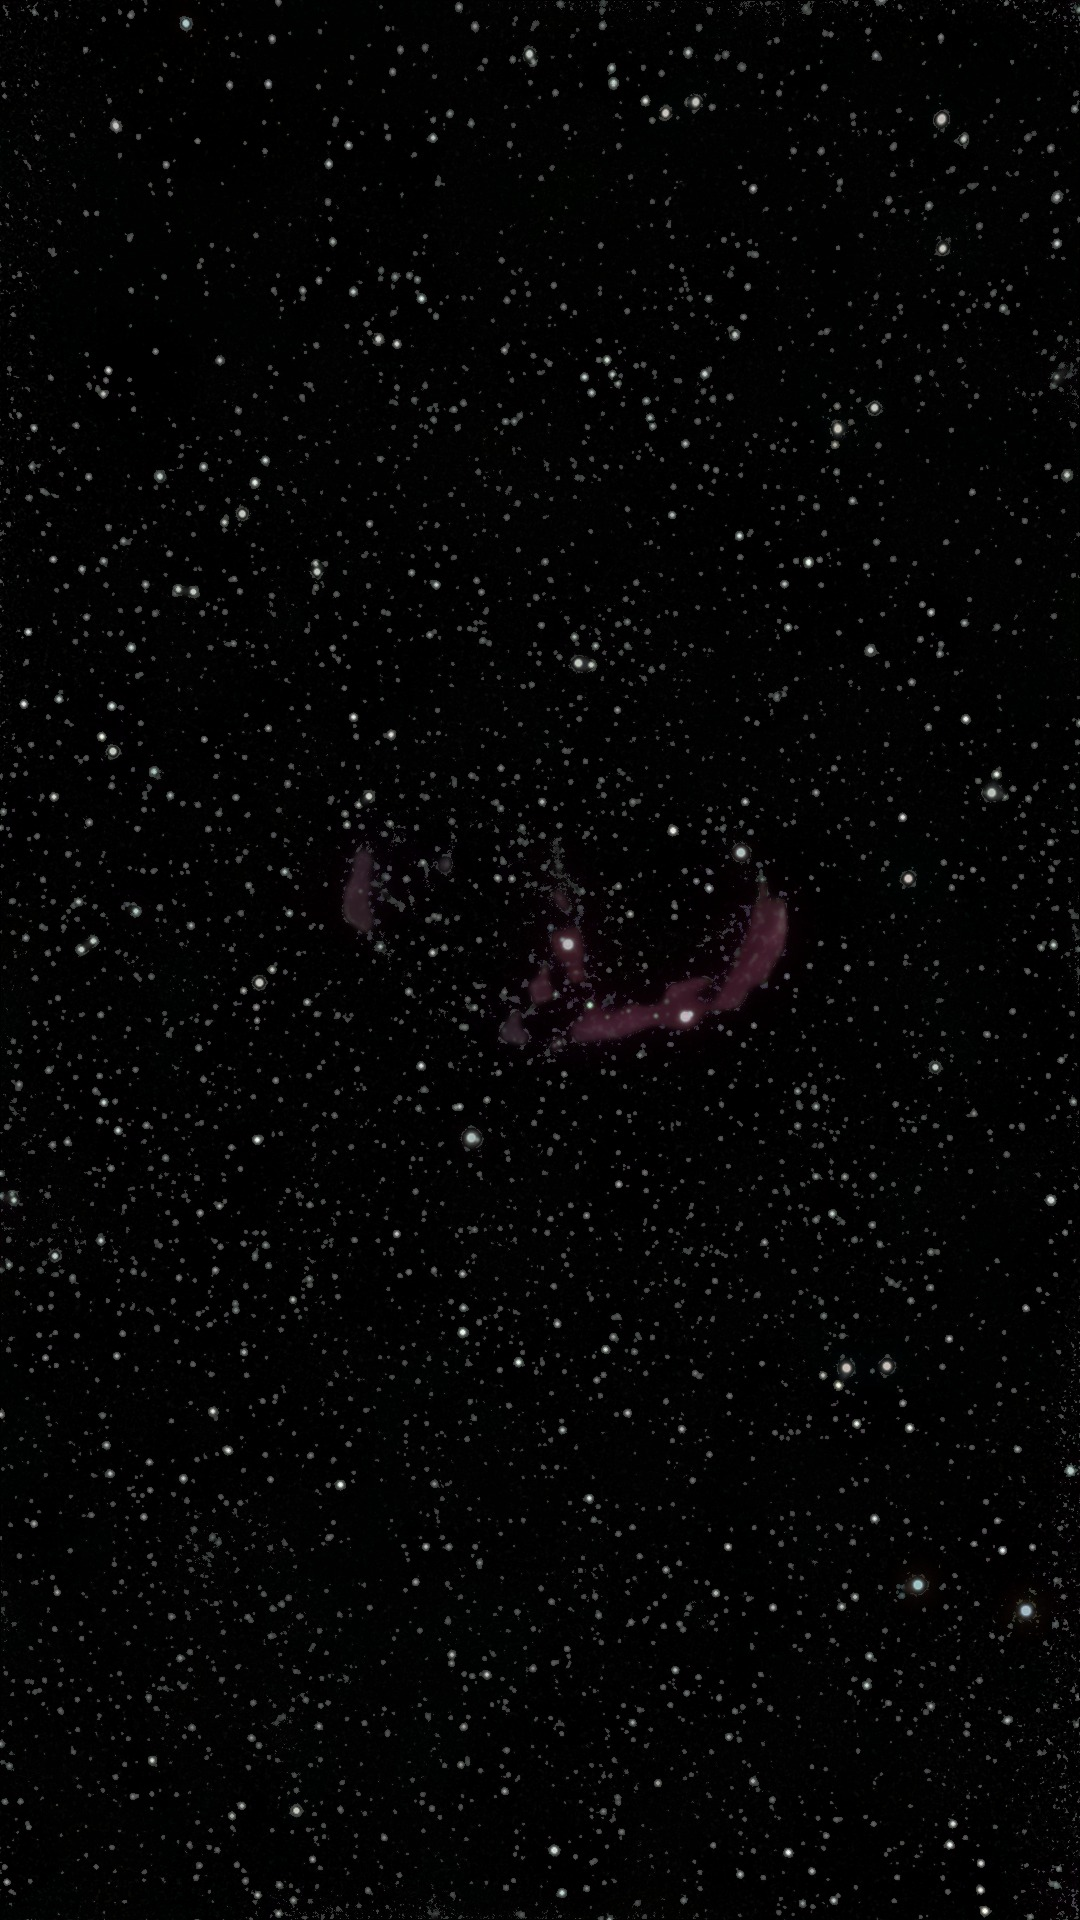
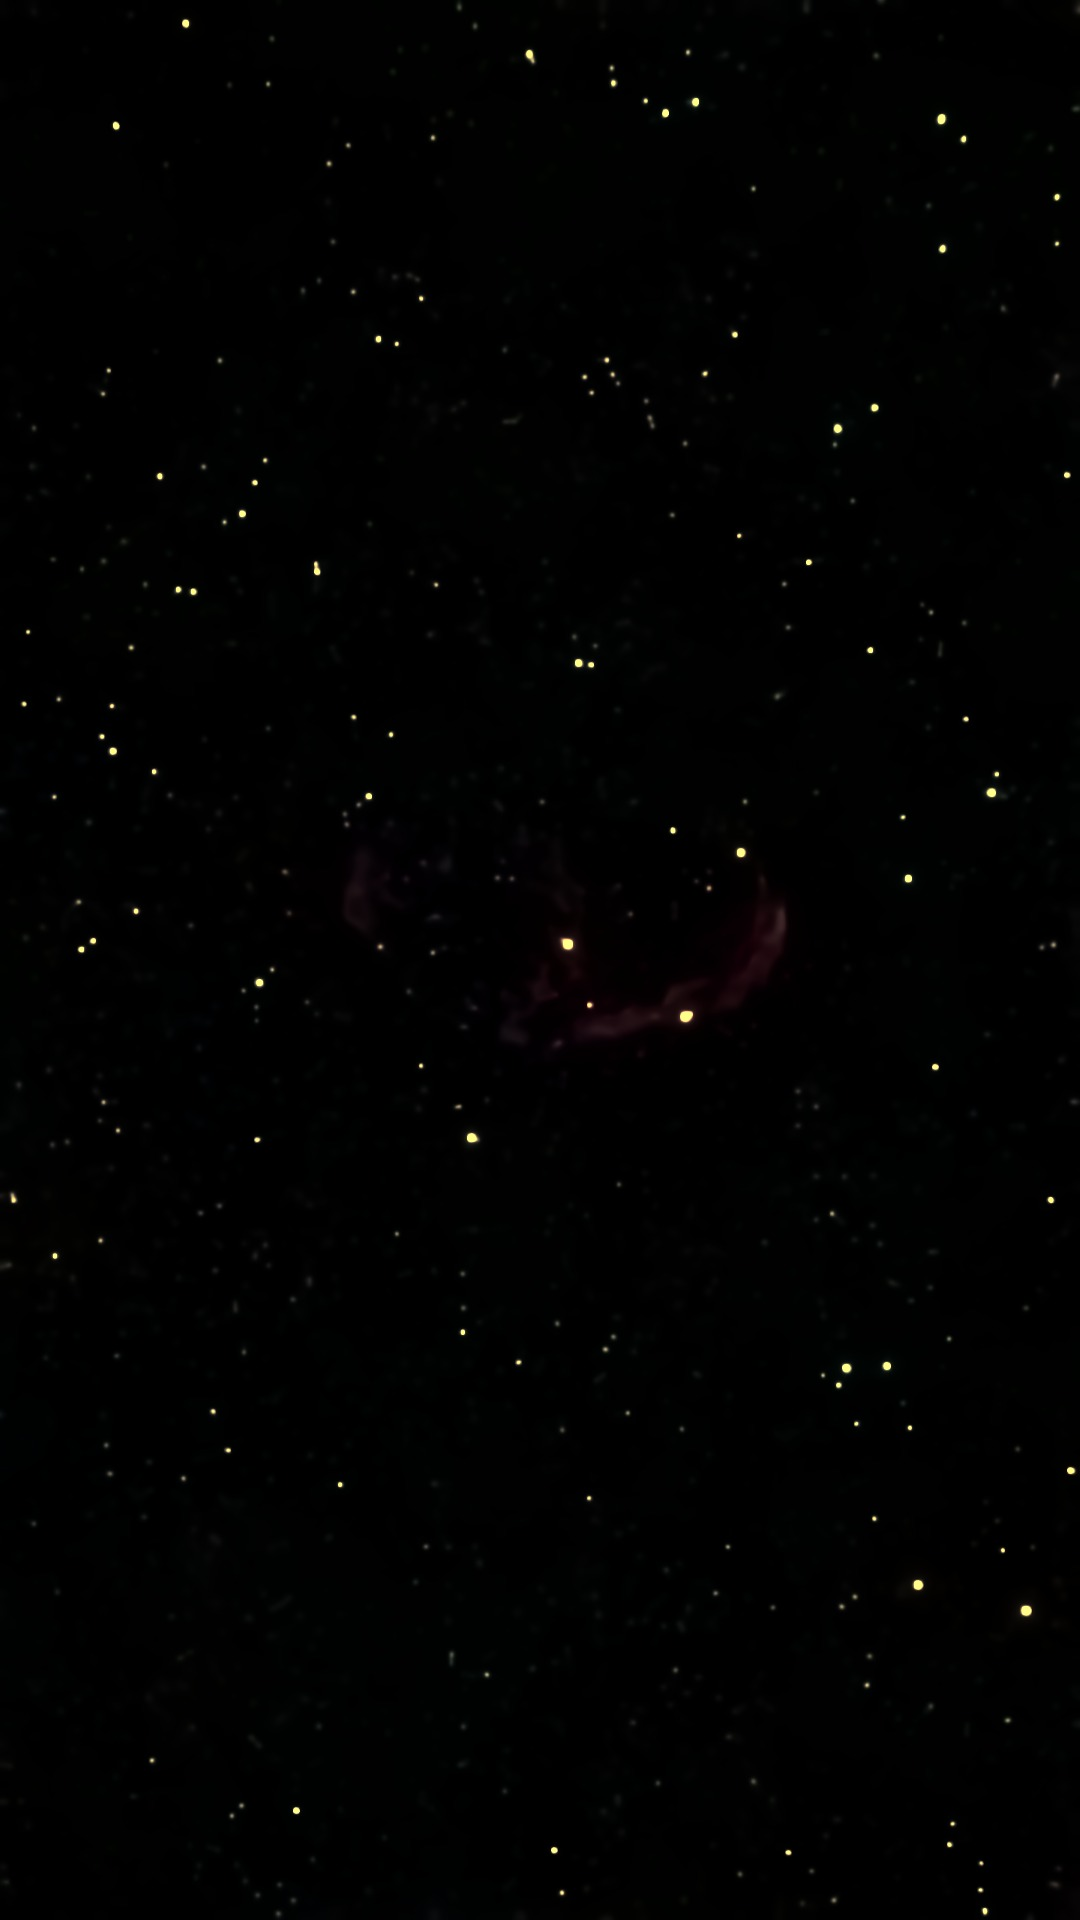
NEBULA_WIDE: disable star-split, warm Crescent arc
Root-cause: tracing NGC 6888 through the pipeline showed the
star-split stage pulled R/G from 1.11 (pre-split) to 2.15 (starless),
while also halving the arc's luma. The median-based star detector
was treating the bright arc as "star-like" and preferentially eating
its green channel, then the low remaining luma made channel_gains
ineffective (they're luma-weighted in curves). Net result: dim
pink-purple arc instead of warm red-orange.

Fixes in NEBULA_WIDE:
- stars: {"radius": 7} -> None  (skip star-split; keep full arc)
- stretch: 16.5 -> 28, white_pct 99.95 -> 99.97, black_pct 25 -> 18
  (lift arc well above sky so luma-weighted gains bite)
- curves.contrast: 0.60 -> 0.70
- curves.saturation: 0.85 -> 1.50
- curves.channel_gains: added (1.60, 1.25, 0.55) for warm red-orange
  matching the user's local reference (R/G=1.23, hue ~20°)
- color.green_clip: 0.20 -> 0.0 (SCNR disabled; preserve G)
- spcc.strength: 0.70 -> 0.35 (avoid over-correcting G as "sensor bias")

Result on Crescent: clear warm red-orange arc with visible structure,
R/G=1.17 (ref 1.23), matches the local reference tone.

NEBULA_DOMINANT / NEBULA_FILAMENT unchanged. All 9 classifier + API
tests pass.

diff --git a/backend/app/profiles.py b/backend/app/profiles.py
@@ -192,25 +192,34 @@ NEBULA: Profile = {
 # already red — less headroom before posterisation).
 NEBULA_WIDE: Profile = {
     **NEBULA,
-    # SPCC is doing the sensor calibration on this profile, so we
-    # turn OFF the static Seestar CCM and drop most of the heuristic
-    # WB. Leaving both active compounds three calibrations on top of
-    # each other and the result swings way too blue.
+    # Bicolor HOO target (Crescent NGC 6888): a Wolf-Rayet bubble with
+    # teal/cyan OIII in the centre and red/pink Hα on the outer shell.
+    # The Seestar RGGB bayer picks up OIII predominantly in the G
+    # channel with some B, and Hα almost entirely in R. To preserve
+    # the bicolor palette we need to keep G intact (no SCNR clipping)
+    # and boost saturation so the two emission bands read as distinct
+    # colours instead of a single pink blob.
     "color": {
         **NEBULA["color"],
         # Static CCM OFF — its built-in R-cut/B-boost was meant for the
         # pre-SPCC pipeline and was compounding with SPCC's own
-        # corrections (purple-cast result). With SPCC now running with
-        # the G2V solar reference and clamped gains, it can do the
-        # whole sensor calibration on its own.
+        # corrections (purple-cast result).
         "ccm": None,
         "wb_strength": 0.0,
-        "green_clip": 0.20,
+        # green_clip=0.0 disables SCNR entirely. The standard nebula
+        # profile clips G toward max(R,B) to tame sky green-bias, but
+        # that destroys the OIII signal on targets where G channel
+        # carries real nebula emission (HOO bicolor).
+        "green_clip": 0.0,
     },
+    # black_percentile=18 crushes the sky hard so the arc contrasts
+    # cleanly against black. stretch=28 + white_pct=99.97 lifts the
+    # arc well into the visible range so downstream luma-weighted
+    # channel_gains have meaningful bite on its pixels.
     "stretch": {
-        "black_percentile": 25.0,
-        "white_percentile": 99.95,
-        "stretch": 16.5,
+        "black_percentile": 18.0,
+        "white_percentile": 99.97,
+        "stretch": 28.0,
     },
     "bm3d_denoise": {
         "sigma": 0.22,
@@ -219,36 +228,43 @@ NEBULA_WIDE: Profile = {
         "chroma_edge_aware": True,
         "chroma_edge_luma_sigma": 0.06,
     },
-    # contrast=0.55 + white_pct=99.97 + stretch=15 keeps the Crescent
-    # arc as a thin coloured ring with visible inner structure instead
-    # of a blown-out solid pink blob. Saturation<1.0 desaturates the
-    # hot pink toward the reference's earthy pink-orange.
+    # contrast=0.70 pulls the arc firmly above the sky. saturation=1.5
+    # + HSV: the Crescent's short-exposure OIII signal is marginal (G
+    # only 27% over R raw), so bicolor teal won't read without much
+    # longer integration. Target a clean warm red-orange Hα arc
+    # matching the user's local reference (ref: R/G=1.23, hue ~20°).
+    #
+    # channel_gains (1.60, 1.25, 0.55): very strong R lift with G
+    # lifted to tilt hue toward orange (not pink) and B cut hard to
+    # remove the residual purple cast. Aggressive values are needed
+    # because gains are luma-weighted in the curves stage, so at the
+    # arc's ~0.3 luma the effective multiplier is much softer.
     "curves": {
-        "contrast": 0.60,
-        "saturation": 0.85,
+        "contrast": 0.70,
+        "saturation": 1.50,
         "saturation_mode": "hsv",
+        "channel_gains": (1.60, 1.25, 0.55),
     },
-    # strength=0.45 — apply 45% of SPCC's fitted gain. Full strength
-    # (1.0) on broadband Seestar data pushes R too hard because Gaia's
-    # RP band is wider / extends further into the IR than a camera's
-    # red filter. Dialling back lets us keep the SPCC star-match
-    # direction without overcooking the result.
+    # SPCC strength dialled back (0.7 -> 0.35) because SPCC calibrates
+    # against stellar references that assume broadband continuum. On
+    # an OIII-dominant bubble the G channel carries real emission
+    # that SPCC would read as "excess green sensor bias" and try to
+    # suppress, which would gut the teal tones.
     "spcc": {
         "min_matches": 20,
-        "strength": 0.7,
-        # `solar_reference_bp_rp=None` means "use the median catalogue
-        # star colour in this frame as the neutral reference". Auto-
-        # corrects for dust-extinction reddening — Milky Way stars are
-        # systematically reddened by intervening dust, and an absolute
-        # G2V reference reads that reddening as a sensor R-bias and
-        # over-corrects to blue.
+        "strength": 0.35,
         "solar_reference_bp_rp": None,
     },
-    # Wide nebulae don't benefit much from star split — the diffuse
-    # signal is too embedded in the star field for median-based
-    # separation to help cleanly — but the split also doesn't hurt,
-    # so we keep the same radius as the generic nebula profile.
-    "stars": {"radius": 7},
+    # Star-split DISABLED on this profile. The median-based star
+    # detector treats the Crescent's green OIII component of the arc
+    # as "star-like" (the arc has brightness comparable to nearby
+    # stars in a small exposure) and preferentially pulls G out of
+    # the starless channel. Tracing NGC 6888 showed R/G jumping from
+    # 1.11 pre-split to 2.15 post-split — that's what kills the arc's
+    # color and leaves it as a dim monochrome red blob. Keeping stars
+    # in the frame preserves the arc's intrinsic R≈G≈B ratio so the
+    # downstream saturation boost can pull out bicolor tones.
+    "stars": None,
 }
 
 
